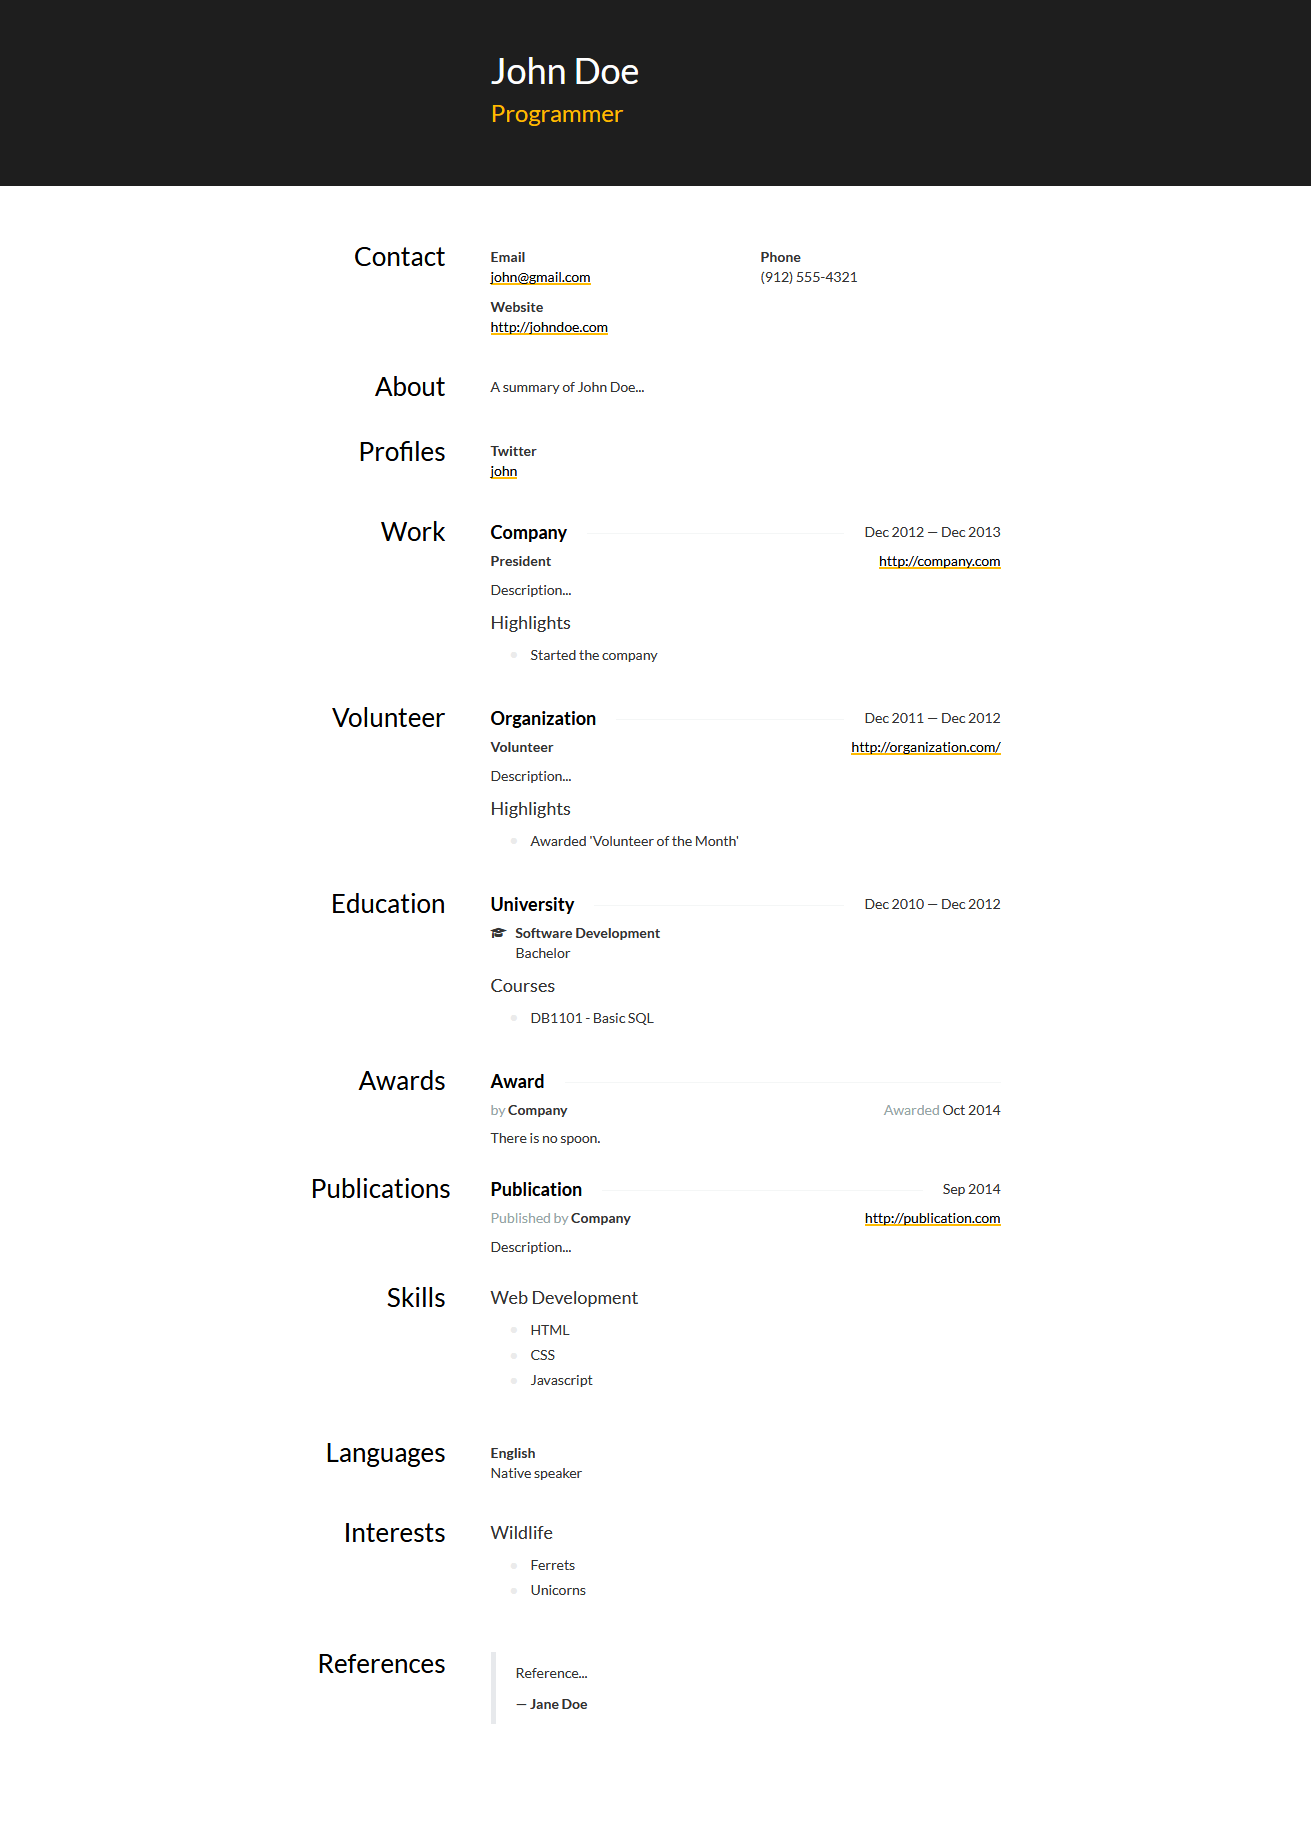
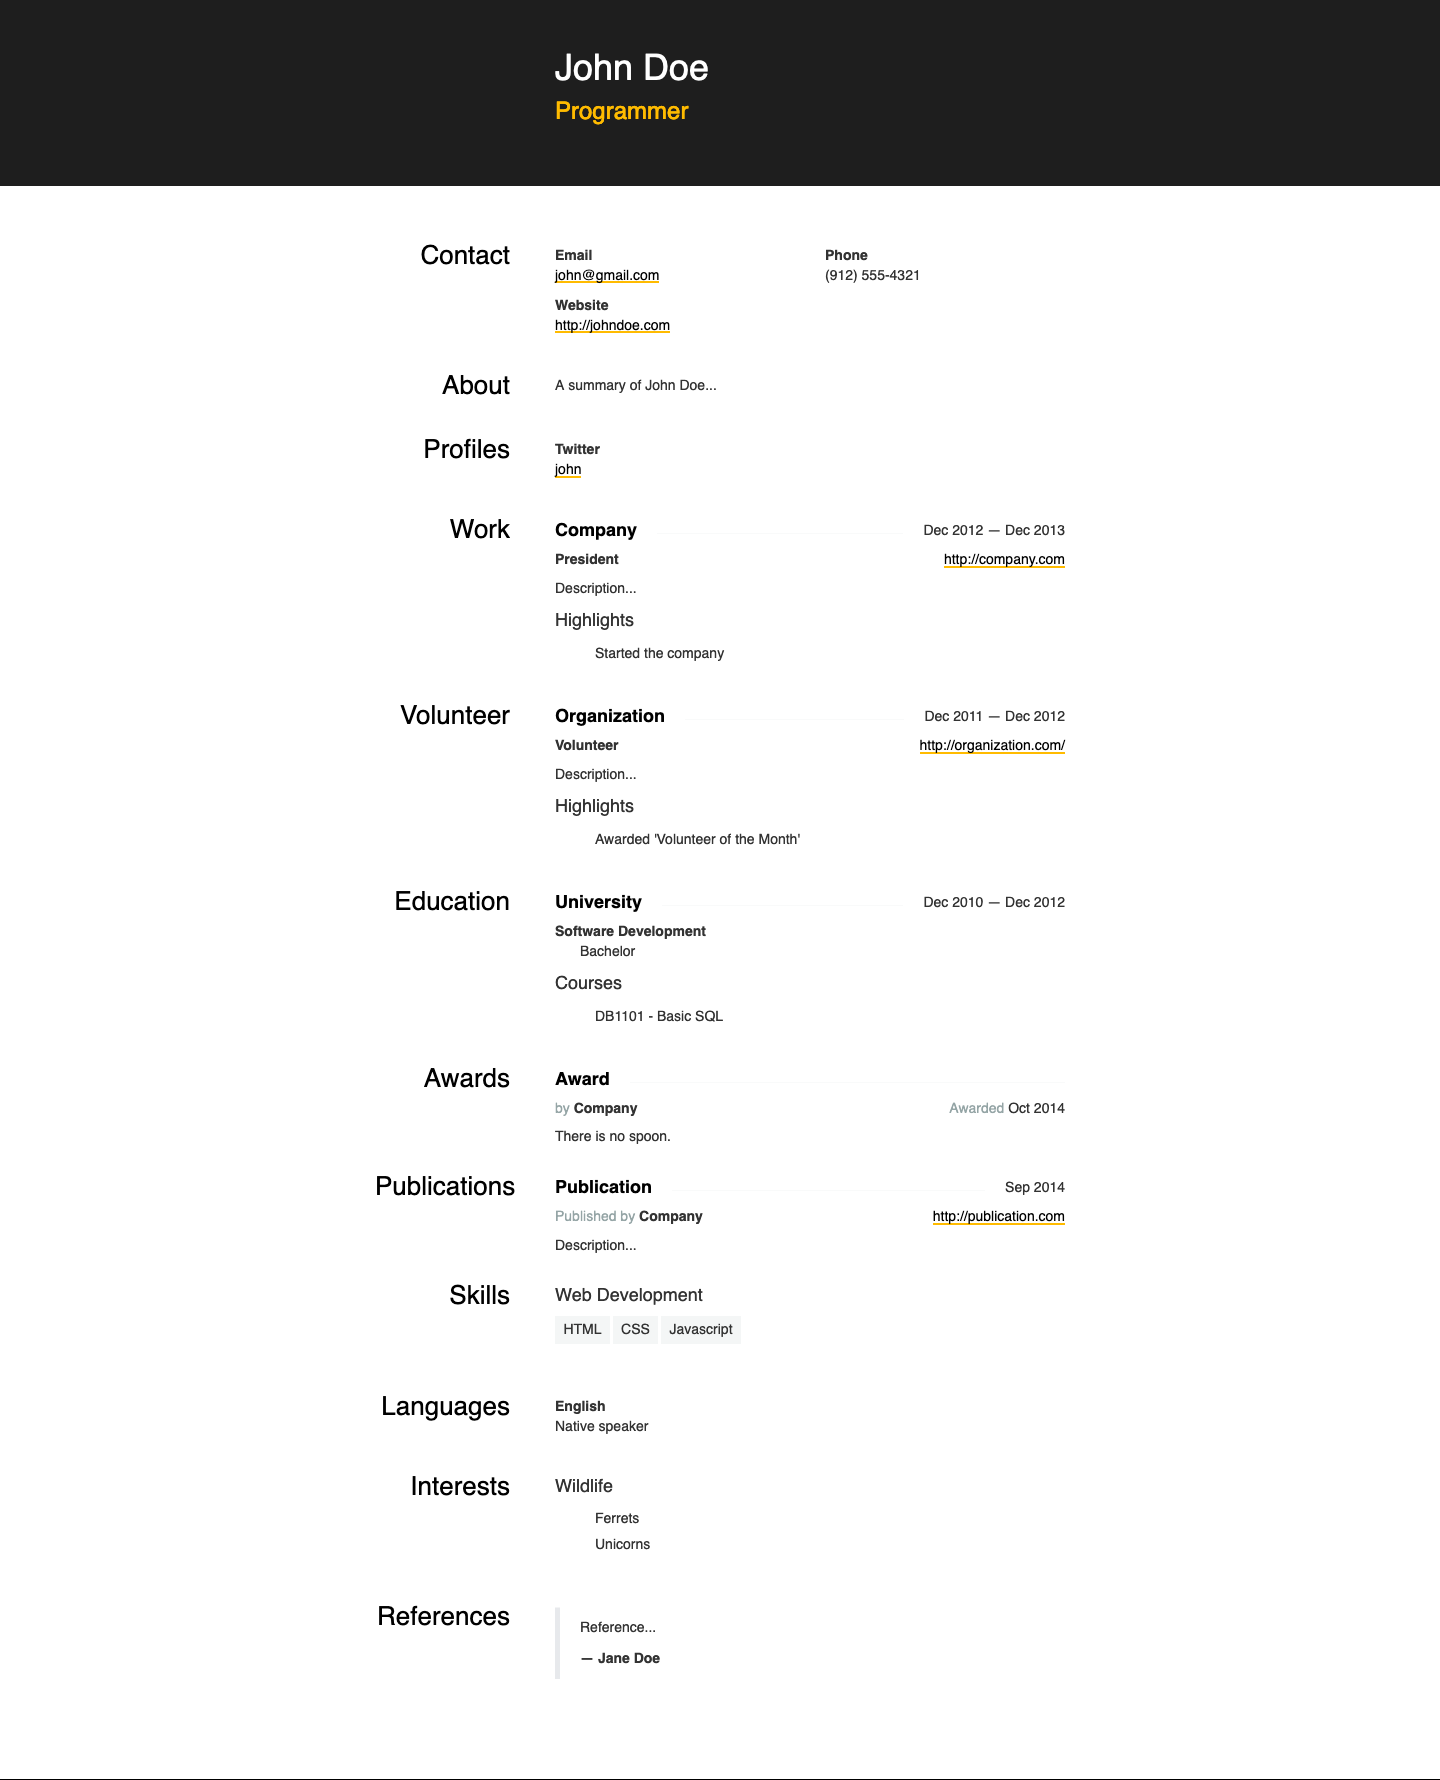
Fix issues

diff --git a/public/index.html b/public/index.html
@@ -12,7 +12,7 @@
 	
 	<style type="text/css">
 	@import url(
-	https://fonts.googleapis.com/css?family=Lato:400,700
+	https://fonts.googleapis.com/css?family&#x3D;Lato:400,700
 );
 
 :root {
@@ -66,7 +66,7 @@ li {
 	list-style: none;
 }
 li:before {
-	content: "\f052";
+	content: &quot;\f052&quot;;
 	float: left;
 	font: 13px Octicons;
 	margin-top: 6px;
@@ -132,7 +132,7 @@ h4 span:first-child {
 	font-weight: bold;
 }
 #education .area:before {
-	content: "\f0d7";
+	content: &quot;\f0d7&quot;;
 	font: 16px Octicons;
 	margin-right: 6px;
 }
@@ -181,7 +181,7 @@ h4 span:first-child {
 		text-align: left;
 	}
 	#publications .website a:before {
-		content: "View publication";
+		content: &quot;View publication&quot;;
 	}
 }
 @media (max-width: 480px) {
@@ -214,7 +214,7 @@ h4 span:first-child {
 	padding: 0;
 }
 
-.tag-list > li {
+.tag-list li {
 	background: var(--mutedColor);
 	margin: 0 0.2em 0.2em 0;
 	padding: 0.1em 0.6em;
